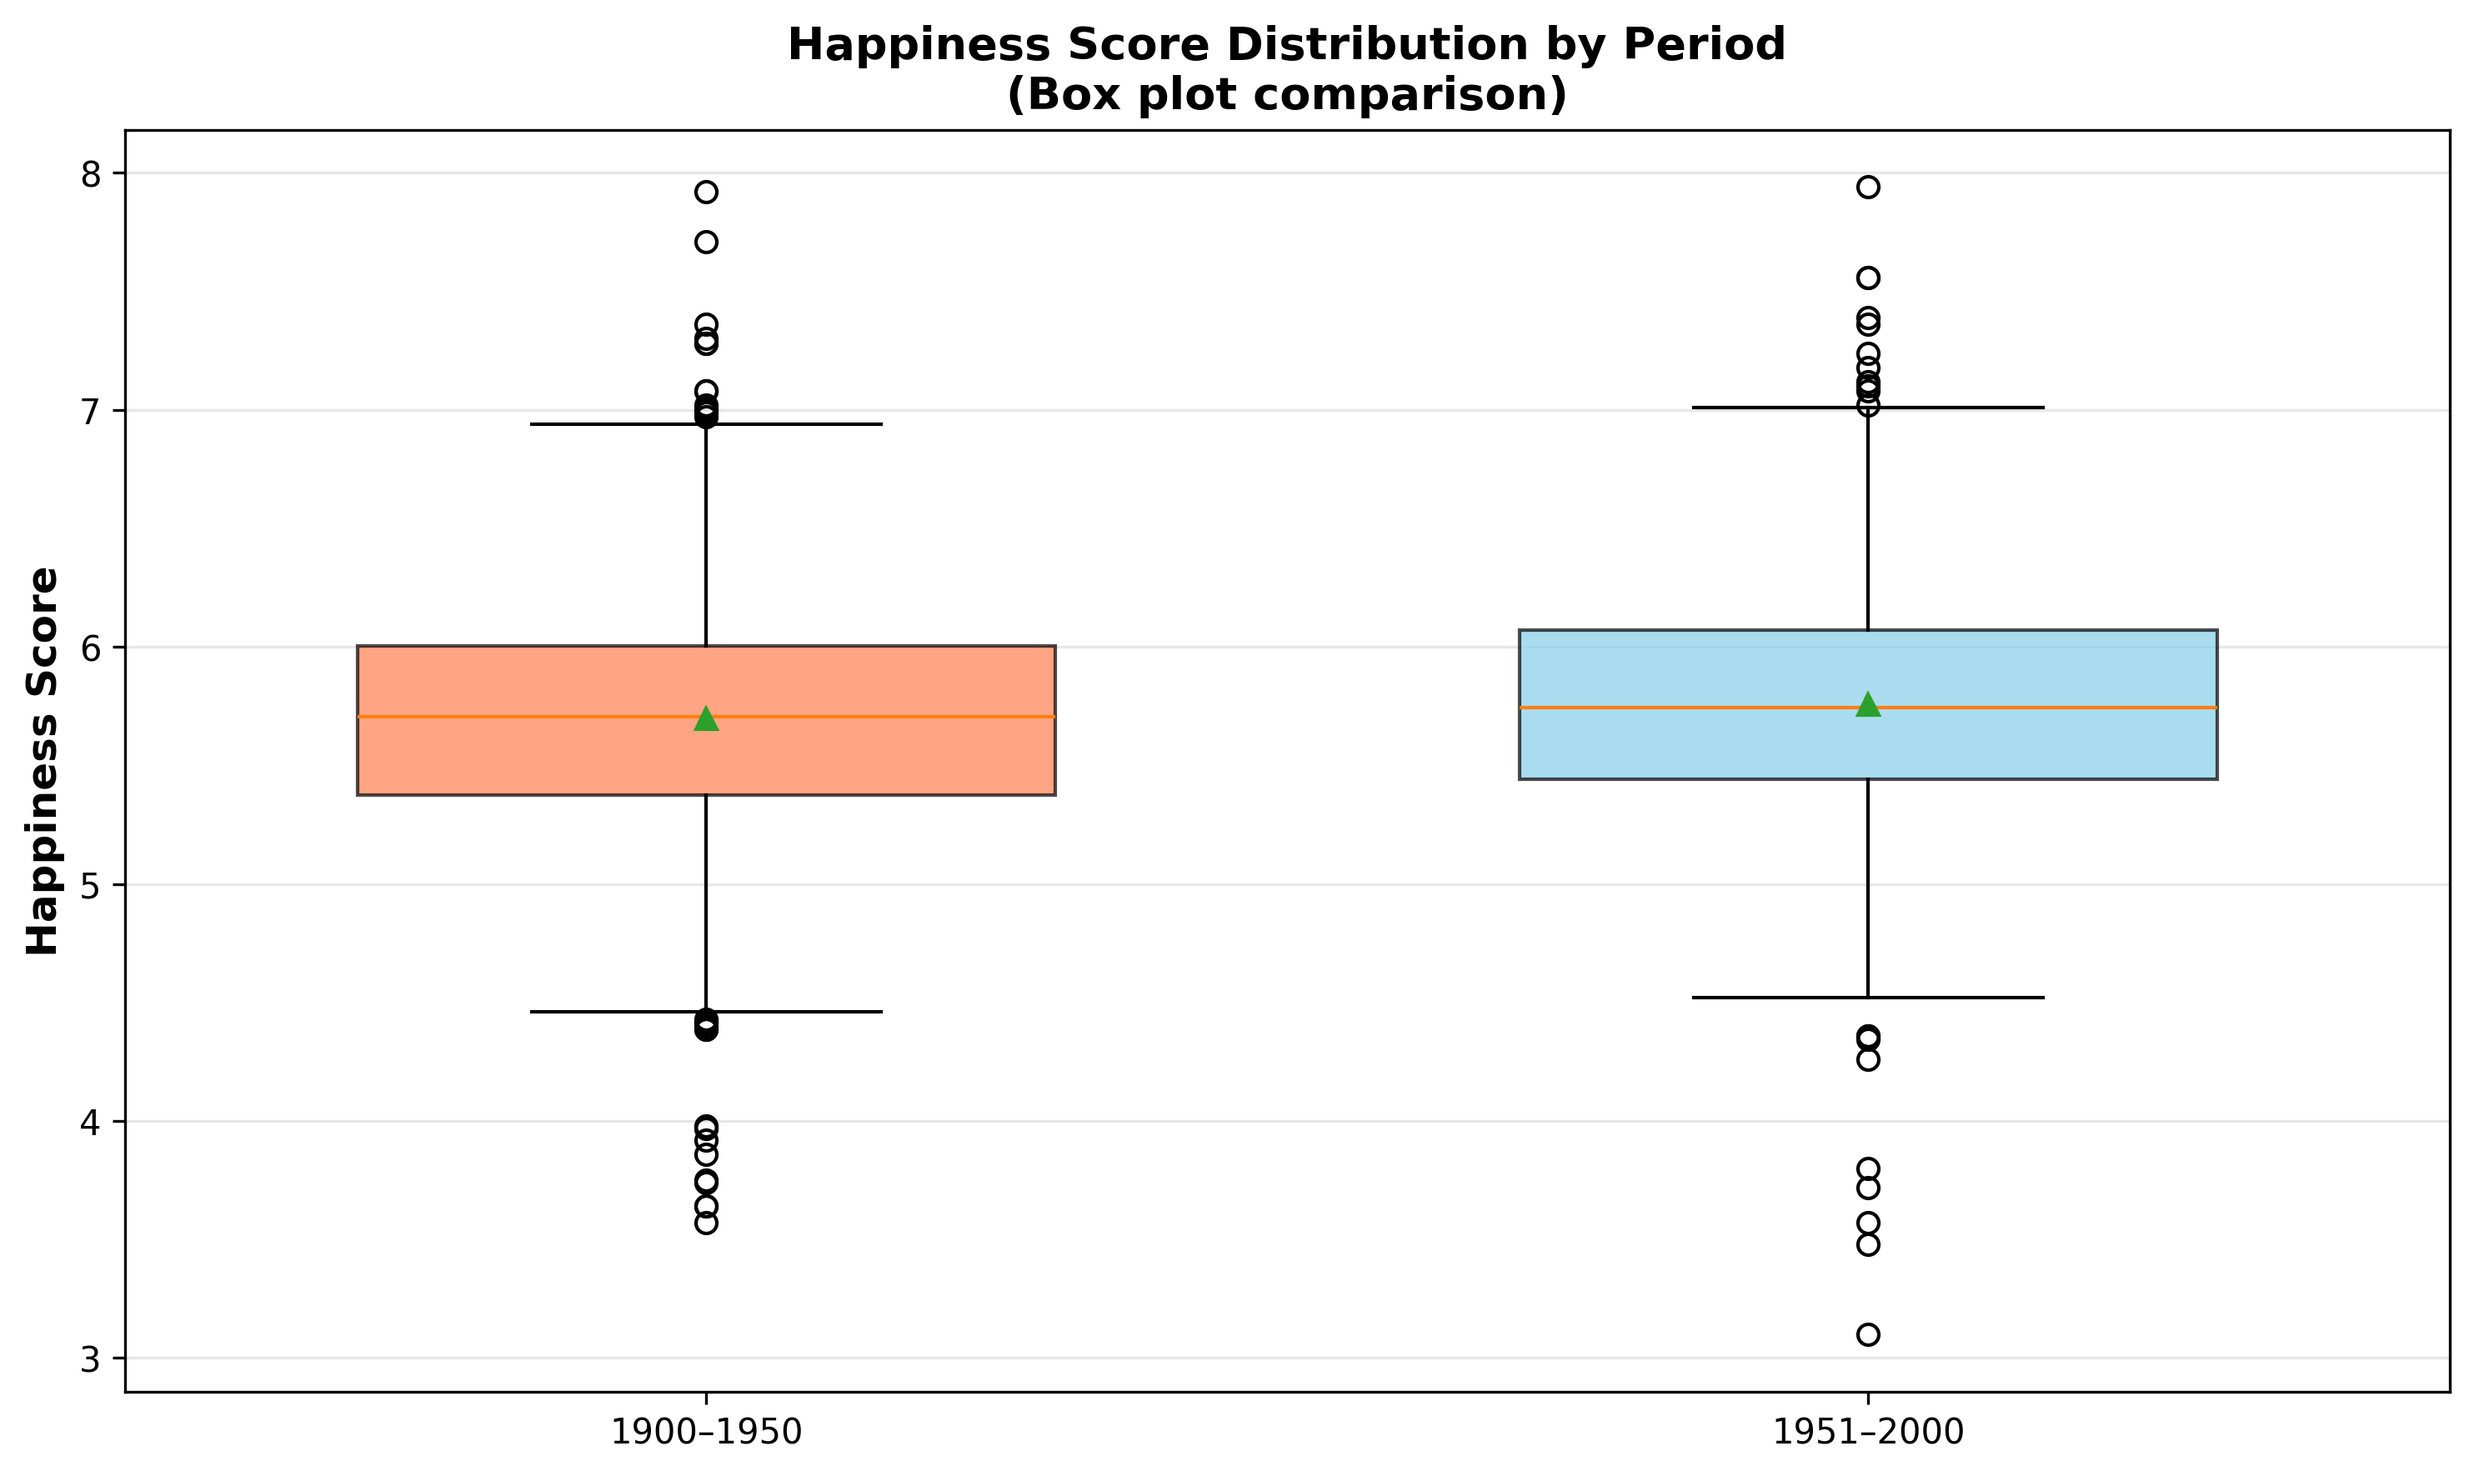
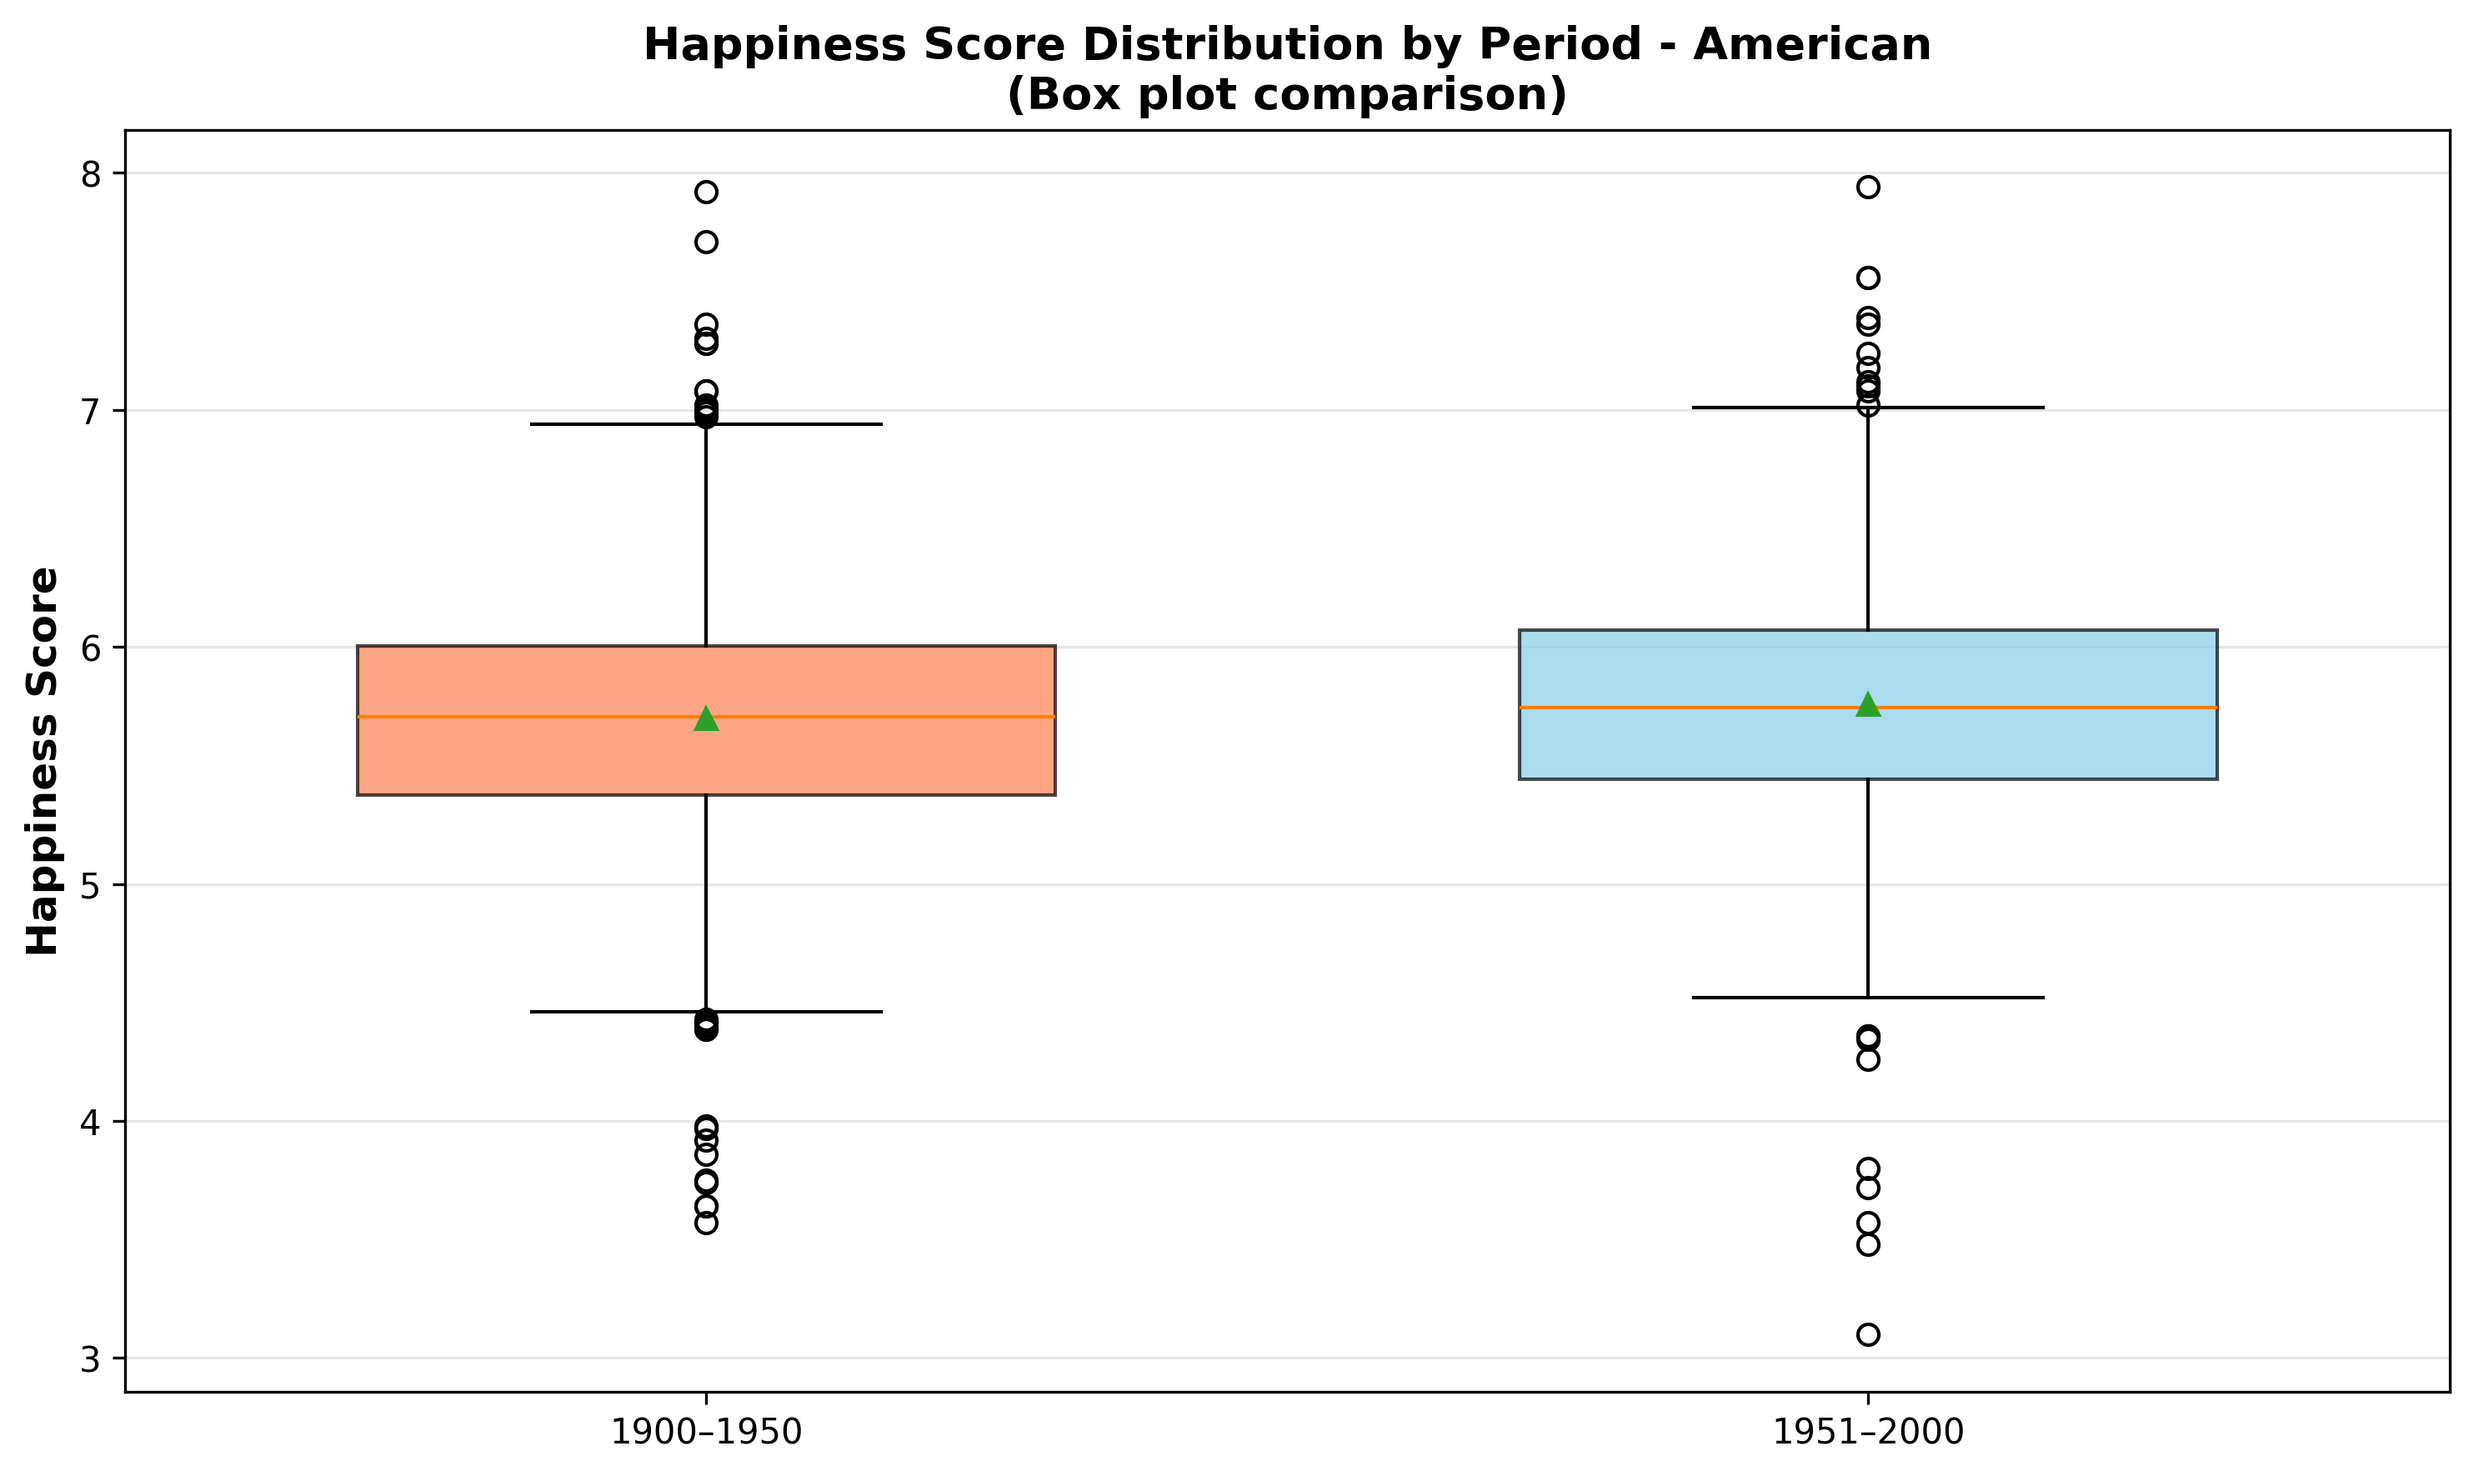
adjust figures names

Changed region(s): [[0.248, 0.0, 0.7749, 0.0621]]

diff --git a/assignment_2/src/create_visualizations_american.py b/assignment_2/src/create_visualizations_american.py
@@ -51,7 +51,7 @@ ax.axvline(period_1951_2000.mean(), color="skyblue", linestyle="--", linewidth=2
 
 ax.set_xlabel("Happiness Score", fontsize=12, fontweight="bold")
 ax.set_ylabel("Density", fontsize=12, fontweight="bold")
-ax.set_title("Happiness Score Distribution by Period\n(Density plots with means)", fontsize=13, fontweight="bold")
+ax.set_title("Happiness Score Distribution by Period - American\n(Density plots with means)", fontsize=13, fontweight="bold")
 ax.legend(fontsize=11, loc="upper right", framealpha=0.9)
 ax.grid(alpha=0.3)
 
@@ -76,7 +76,7 @@ for patch, color in zip(bp["boxes"], colors):
     patch.set_alpha(0.7)
 
 ax.set_ylabel("Happiness Score", fontsize=12, fontweight="bold")
-ax.set_title("Happiness Score Distribution by Period\n(Box plot comparison)", fontsize=13, fontweight="bold")
+ax.set_title("Happiness Score Distribution by Period - American\n(Box plot comparison)", fontsize=13, fontweight="bold")
 ax.grid(axis="y", alpha=0.3)
 
 plt.tight_layout()
@@ -121,7 +121,7 @@ if len(decade_stats) > 1:
 
 ax.set_xlabel("Decade", fontsize=12, fontweight="bold")
 ax.set_ylabel("Mean Happiness Score", fontsize=12, fontweight="bold")
-ax.set_title("Emotional Language Trends in Met Photograph Titles by Decade (1900–2000)", 
+ax.set_title("Emotional Language Trends in American Met Photograph Titles by Decade (1900–2000)", 
              fontsize=13, fontweight="bold")
 ax.grid(alpha=0.3)
 ax.legend(fontsize=11, loc="best")
@@ -167,7 +167,7 @@ if len(year_stats) > 1:
 
 ax.set_xlabel("Year", fontsize=12, fontweight="bold")
 ax.set_ylabel("Mean Happiness Score", fontsize=12, fontweight="bold")
-ax.set_title("Emotional Language Trends in Met Photograph Titles (1900–2000)", 
+ax.set_title("Emotional Language Trends in American Met Photograph Titles (1900–2000)", 
              fontsize=13, fontweight="bold")
 ax.grid(alpha=0.3)
 ax.legend(fontsize=11, loc="best")

diff --git a/README.md b/README.md
@@ -705,7 +705,7 @@ Overall, the findings indicate that, while both regions' happiness levels have s
 
 ### Histograms showing the distribution of happiness scores
 
-**Overall Distribution**
+**Overall Distribution - American**
 
 ![Distribution of Happiness Scores](assignment_2/figures/happiness_distribution_overall_american.png)
 
@@ -713,20 +713,20 @@ This histogram displays the complete distribution of happiness scores across all
 
 ### Comparison plots between the two time periods American Artwork Titles
 
-**Distribution by Period (Density Plot)**
+**Distribution by Period (Density Plot) - American**
 
 ![Happiness Score Distribution by Period](assignment_2/figures/happiness_distribution_by_period_american.png)
 
 The density plot compares happiness scores between the two time periods (1900–1950 and 1951–2000). The smooth curves make it easier to compare the shapes of the distributions (as opposed to two merged histograms in one chart). Dashed vertical lines indicate the mean happiness score for each period. The slight rightward shift of the 1951–2000 distribution suggests that later photographs tend to have slightly more positive titles. Yet, as mentioned earlier in the comparative analysis you can see that afzter 1951 there is only a slight increase in positive words in the artworks' titles.
 
-**Distribution by Period (Box Plot)**
+**Distribution by Period (Box Plot) - American**
 
 ![Happiness Score Box Plot](assignment_2/figures/happiness_boxplot_by_period_american.png)
 
 In order to visualize whether one period has higher scores and to showcase outliers, we decided to also visualize our results in 2 boxplots. This box plot provides a quartile-based comparison, clearly showing the median (middle line in each box), the spread of the middle 50% of the data (the box itself), and outliers (individual points). This visualization makes it easy to identify whether one period has systematically higher or lower happiness values. Looking closely, it is visible that the 1951 - 2000 period box is higher, but there are also more outliers towards lower happiness scores (which indicates a small contradiction that could be followed up on).
 
 
-# Trend visualizations illustrating potential changes in emotional language over time
+# Trend visualizations illustrating potential changes in emotional language over time - American
 
 **Happiness Trends by Decade (1900–2000)** | **Happiness Trends by Year (1900–2000)**
 ---|---
@@ -736,27 +736,27 @@ The decade plot reveals the broad historical trajectory, while the year plot cap
 
 ### Comparison plots between the two time periods European Artwork Titles
 
-**Overall Distribution**
+**Overall Distribution - European**
 
 ![Distribution of Happiness Scores - European](assignment_2/figures/happiness_distribution_overall_european.png)
 
 This histogram displays the complete distribution of happiness scores across all European artworks in our dataset. Similar to the American dataset, the distribution is centered between 5.0 and 6.0, reflecting a general tendency toward neutral and positive language in photograph titles.
 
-**Distribution by Period (Density Plot)**
+**Distribution by Period (Density Plot) - European**
 
 ![Happiness Score Distribution by Period - European](assignment_2/figures/happiness_distribution_by_period_european.png)
 
 The density plot compares happiness scores between the two time periods (1900–1950 and 1951–2000) for European photograph titles. Like the American data, the curves show minimal differences between the two periods, suggesting relatively stable emotional language across the century.
 
-**Distribution by Period (Box Plot)**
+**Distribution by Period (Box Plot) - European**
 
 ![Happiness Score Box Plot - European](assignment_2/figures/happiness_boxplot_by_period_european.png)
 
 This box plot provides a quartile-based comparison for European photographs. Similar to the American sample, the distributions are fairly comparable across the two periods, with both showing a median around 5.7 and similar spread patterns.
 
-**Trend visualizations for European Artwork Titles**
+**Trend visualizations for European Artwork Titles (1900–2000)**
 
-**Happiness Trends by Decade (1900–2000)** | **Happiness Trends by Year (1900–2000)**
+**Happiness Trends by Decade** | **Happiness Trends by Year**
 ---|---
 ![Happiness Trend by Decade - European](assignment_2/figures/happiness_trend_by_decade_european.png) | ![Happiness Trend by Year - European](assignment_2/figures/happiness_trend_by_year_european.png)
 
